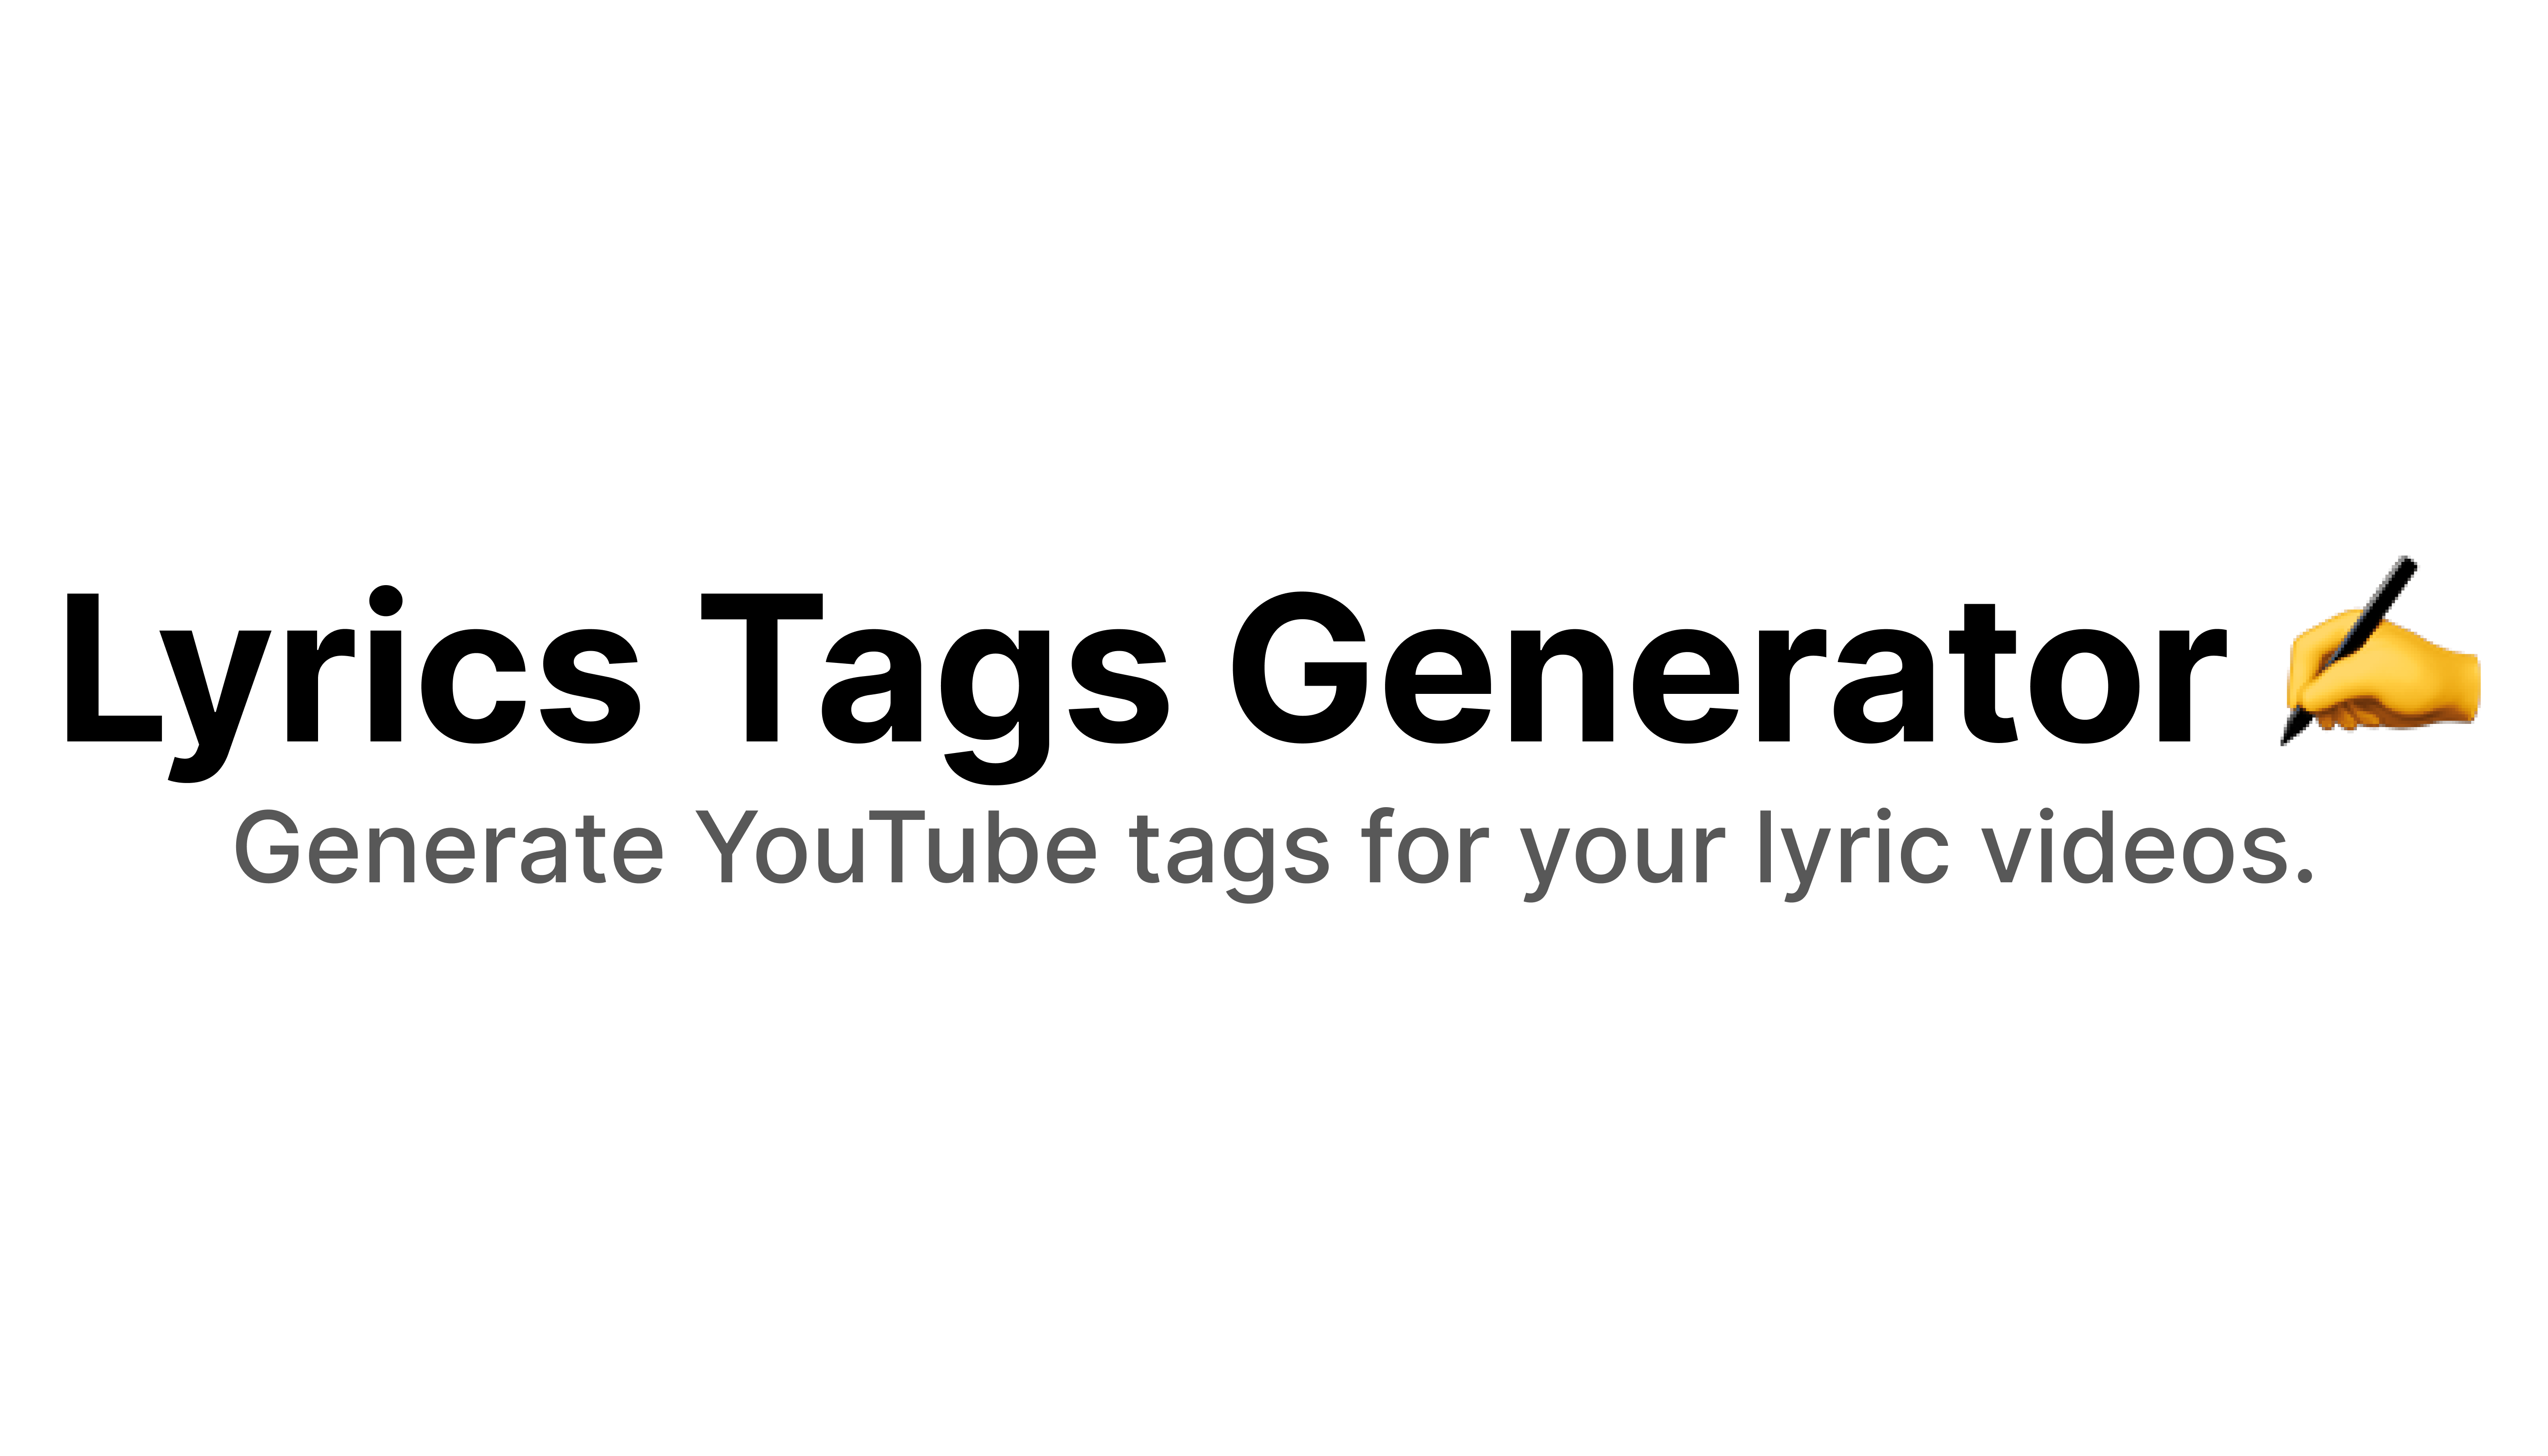
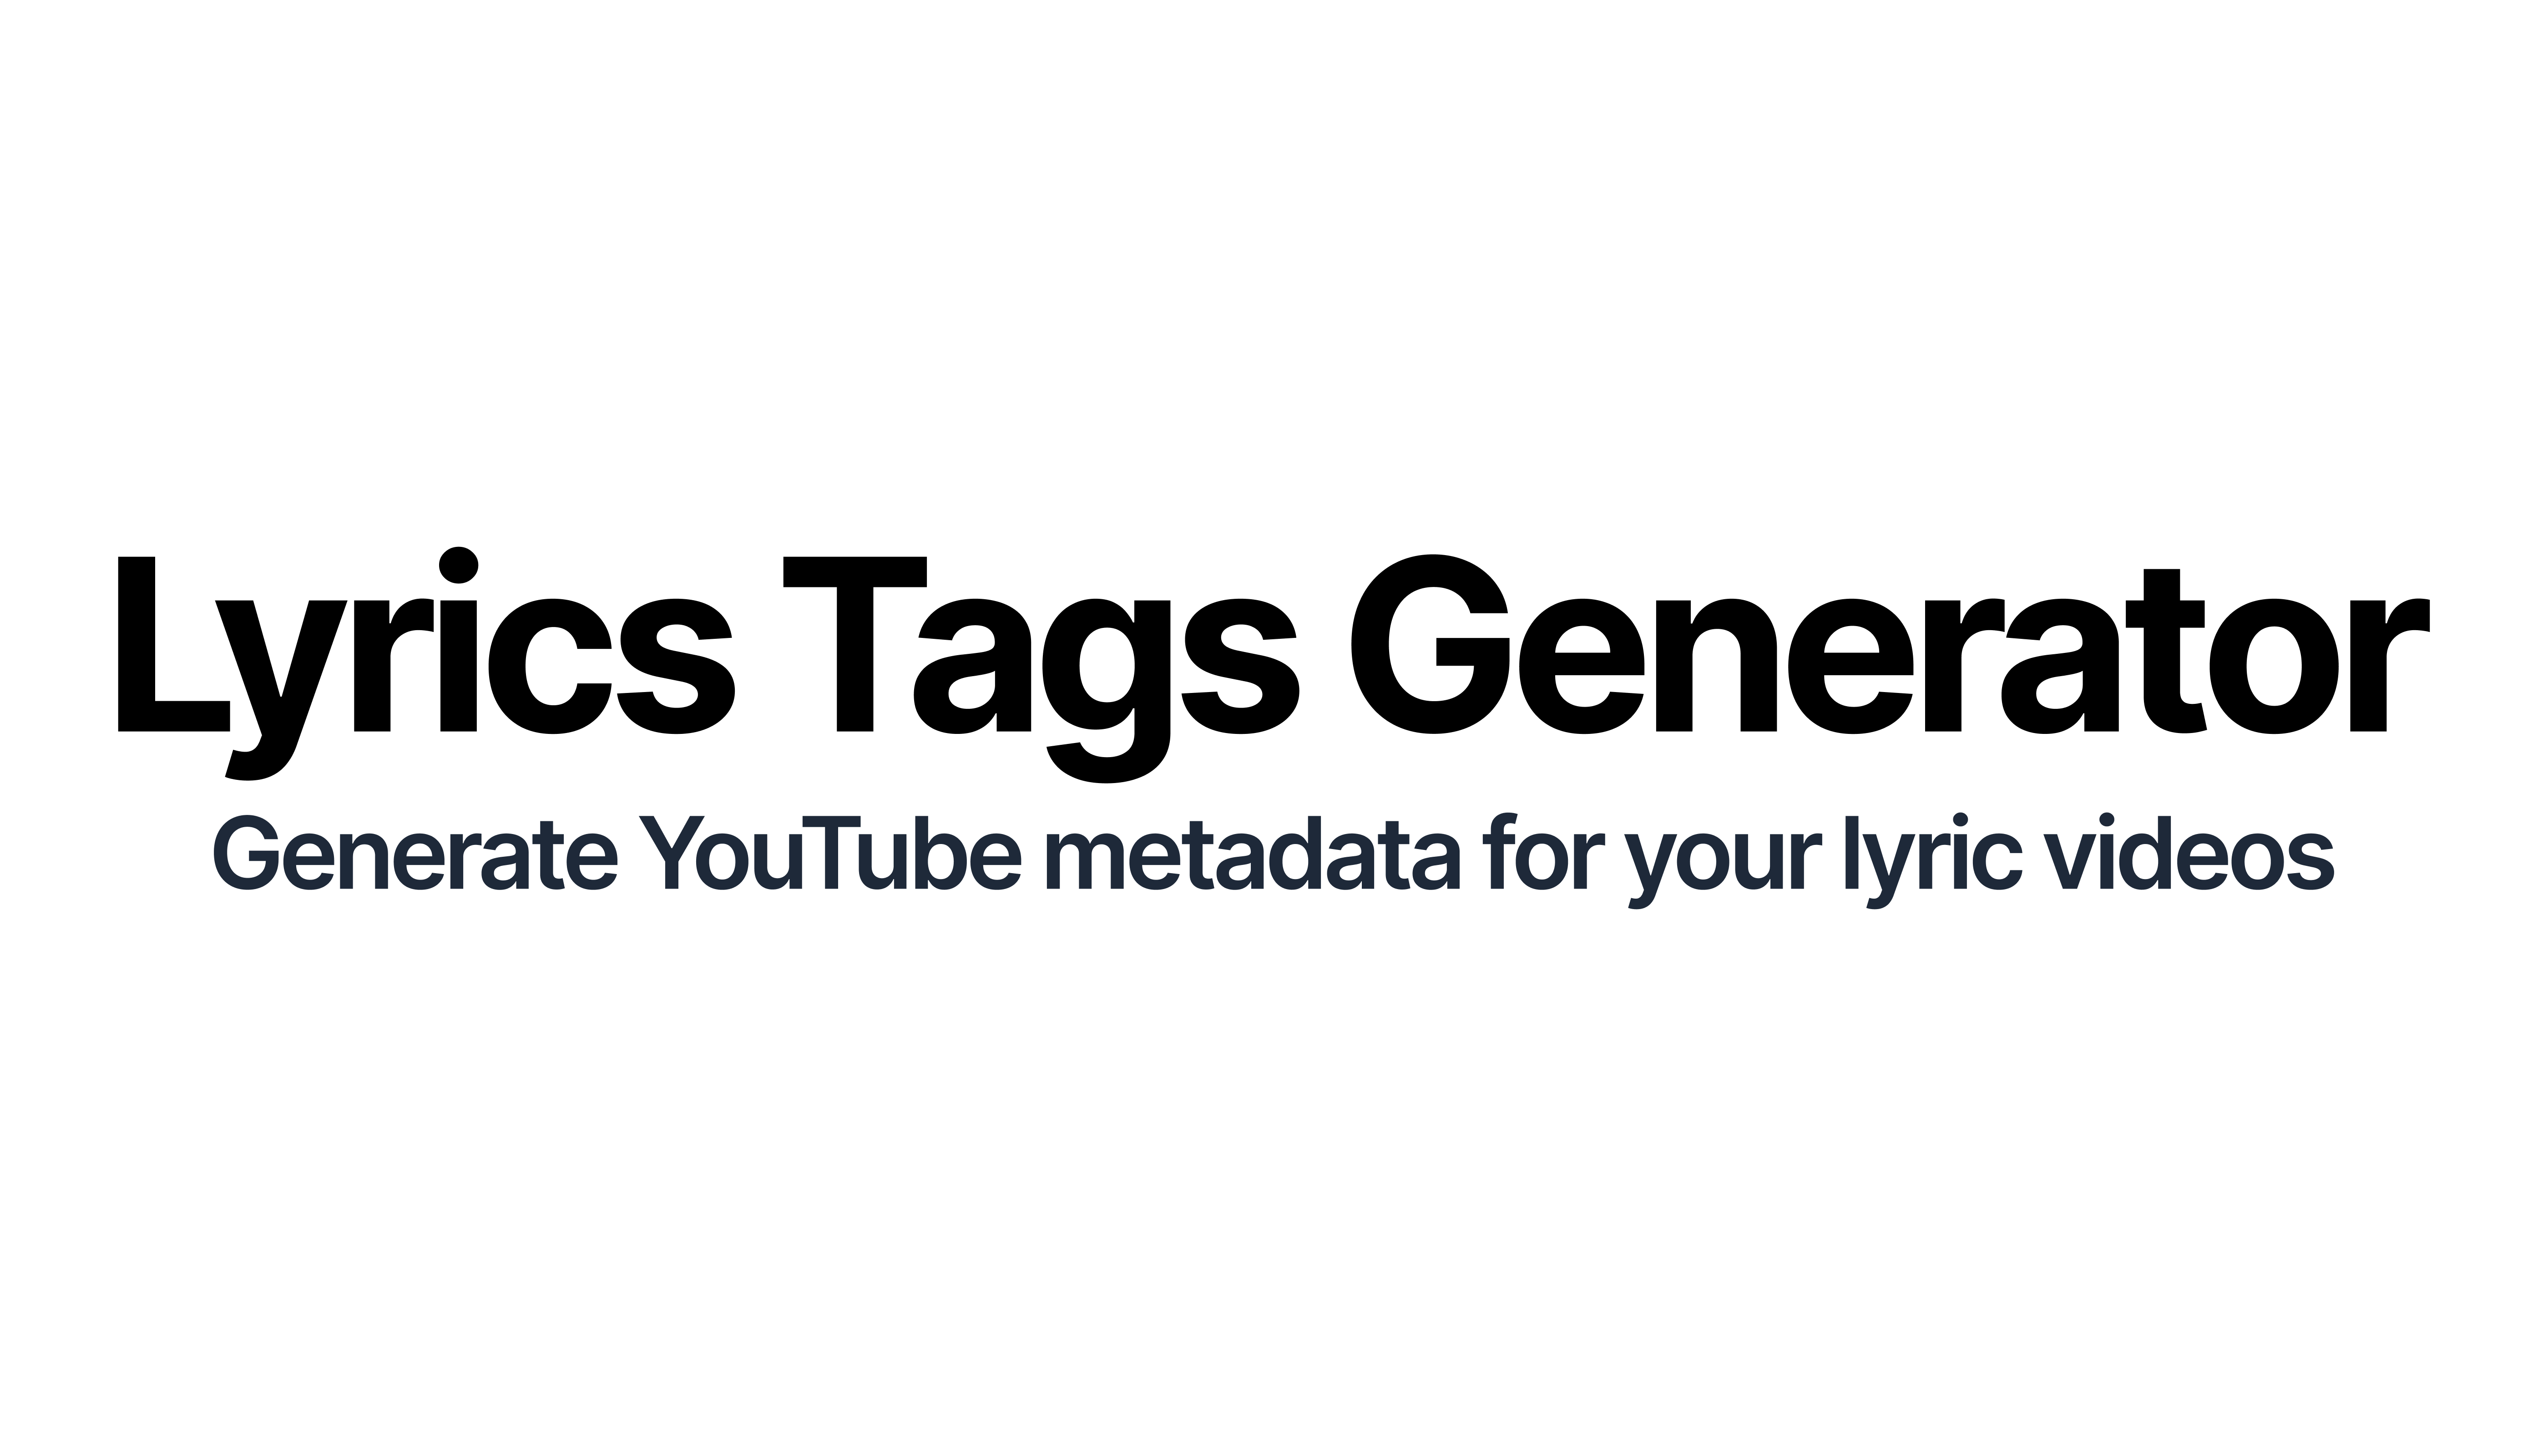
change og image and use personal brand color

Changed region(s): [[0.0, 0.375, 1.0, 0.625]]

diff --git a/src/components/Seo.tsx b/src/components/Seo.tsx
@@ -1,7 +1,7 @@
-import { seoKeywords } from "@/lib/seo/seo-keywords";
+import { seoKeywords } from '@/lib/seo/seo-keywords';
 
 // Next.js
-import Head from "next/head";
+import Head from 'next/head';
 
 interface Props {
   seoDescription: string;
@@ -9,15 +9,15 @@ interface Props {
 }
 
 export const Seo = (props: Props) => {
-  const imageUrl = "https://tags.notnick.io/tags.png";
-  const siteUrl = "https://tags.notnick.io";
+  const imageUrl = 'https://tags.notnick.io/tags.png';
+  const siteUrl = 'https://tags.notnick.io';
 
   return (
     <Head>
       <title>{props.seoTitle}</title>
       <meta name="description" content={props.seoDescription} key="desc" />
       <meta property="og:title" content={`${props.seoTitle} | YouTube`} />
-      <meta name="theme-color" content="#f54bff" />
+      <meta name="theme-color" content="#30D158" />
       <meta name="mobile-web-app-capable" content="yes" />
       <meta name="apple-mobile-web-app-status-bar-style" content="black" />
       <meta name="twitter:title" content={`${props.seoTitle} | YouTube`} />